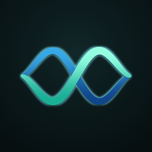
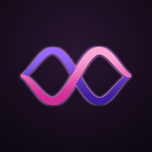
Ship the teal colourway, and put the odd one out on development builds
The shipping icon and its Light alternate move to the mint-and-teal colourway.
Development keeps the magenta one deliberately: a development build sitting on
the home screen next to the real app should never be mistaken for it, and the
icon is the only thing distinguishing them at a glance.

Also fixes the generator's idea of where the repository is. It derived the root
from its own path, which is right when it runs from tools/branding and wrong the
moment it is copied anywhere else - the install then wrote eleven icons into a
directory that did not exist and died on the first one. It now honours FLUX_ROOT
and falls back to the path-derived value.

Checked the installed files by eye rather than by filename. A hue sample is not
enough to tell these apart: the colourway has a mint front ribbon and a blue back
ribbon, so sampling the most saturated pixel can report either and had me briefly
believing the swap had not applied.

Changed region(s): [[0.1316, 0.2895, 0.8684, 0.7105]]

diff --git a/tools/branding/build_icons.py b/tools/branding/build_icons.py
@@ -146,12 +146,17 @@ build("f_c.png", (18, 40, 42), (5, 11, 12),
 if __name__ == "__main__" and len(__import__("sys").argv) > 1 and __import__("sys").argv[1] == "install":
     import os, shutil
     from PIL import Image
-    ROOT = os.path.abspath(os.path.join(os.path.dirname(__file__), "..", ".."))
+    # Repo root: two levels up from tools/branding when run in place, or FLUX_ROOT when
+    # the script is run from a scratch copy elsewhere.
+    ROOT = os.environ.get("FLUX_ROOT") or os.path.abspath(
+        os.path.join(os.path.dirname(os.path.abspath(__file__)), "..", ".."))
     VARIANTS = {
         # name        source render        catalog dir / filename                                  loose prefix
-        "Light":  ("f_a.png", "AppIcon-Light.appiconset/1024x1024.png",                    "AppIcon-Light"),
+        "Light":  ("f_c.png", "AppIcon-Light.appiconset/1024x1024.png",                    "AppIcon-Light"),
         "Dark":   ("f_dark.png", "AppIcon-Dark.appiconset/AppIcon-Dark_1024x1024.png",        "AppIcon-Dark"),
-        "Development": ("f_c.png", "AppIcon-Development.appiconset/AppIcon-Development_1024x1024.png", "AppIcon-Development"),
+        # Development stays visibly different from the shipping icon, so a dev build on
+        # the home screen is never mistaken for the real one.
+        "Development": ("f_b.png", "AppIcon-Development.appiconset/AppIcon-Development_1024x1024.png", "AppIcon-Development"),
     }
     for label, (src, catalog, prefix) in VARIANTS.items():
         im = Image.open(src).convert("RGB")
@@ -161,7 +166,7 @@ if __name__ == "__main__" and len(__import__("sys").argv) > 1 and __import__("sy
             out = os.path.join(ROOT, "Natives/resources", prefix + suffix)
             im.resize((px, px), Image.LANCZOS).save(out); print("  ", out)
     # the unprefixed pair is the primary icon
-    im = Image.open("f_a.png").convert("RGB")
+    im = Image.open("f_c.png").convert("RGB")
     for px, suffix in ((120, "60x60@2x.png"), (152, "76x76@2x~ipad.png")):
         out = os.path.join(ROOT, "Natives/resources", "AppIcon" + suffix)
         im.resize((px, px), Image.LANCZOS).save(out); print("  ", out)
